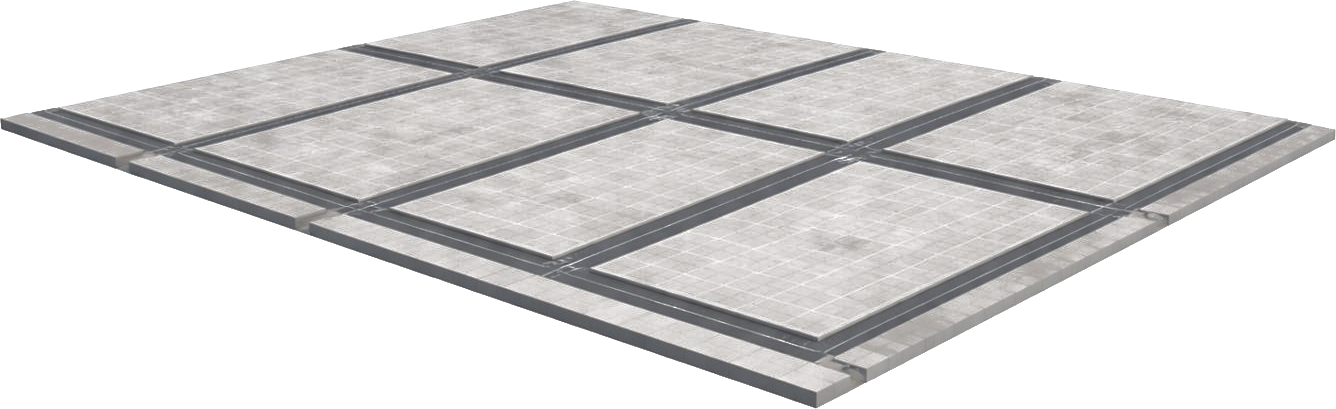
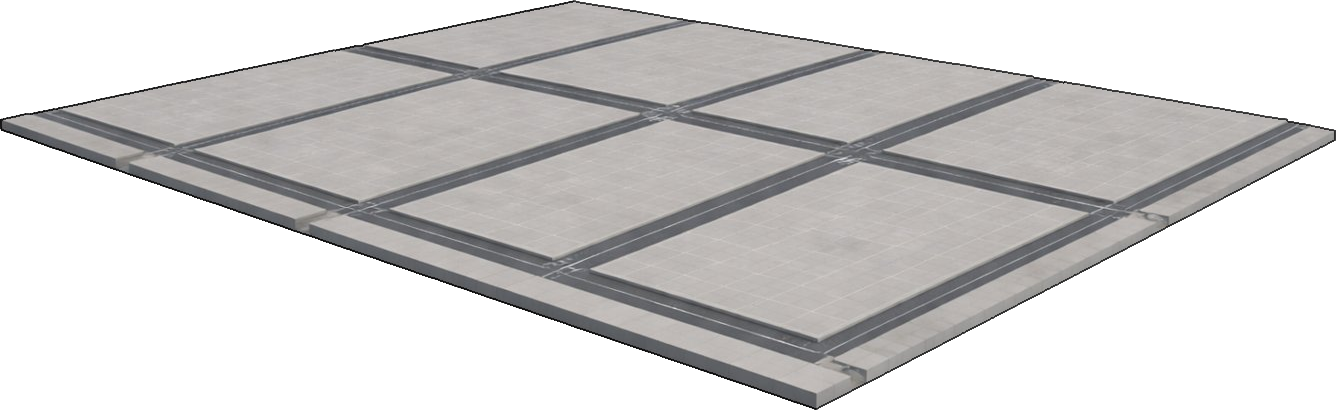
Add 3 AWS regions as interactive islands with labels and hover effects
- Define REGIONS data structure for eu-west-1, ap-southeast-1, us-east-1
- Render islands dynamically with region ID, AZ count, and city labels
- Add hover scale effect (1.05) with smooth transition
- Size islands proportionally by capacity using clamp/vw units
- Update branding to 3 REGIONS · AWS VISUALIZATION

diff --git a/src/CloudCityScene.jsx b/src/CloudCityScene.jsx
@@ -38,10 +38,54 @@ function drawSky(canvas) {
   ctx.putImageData(d,0,0);
 }
 
+const REGIONS = [
+  {
+    id: "eu-west-1",
+    name: "Ireland",
+    left: "8%",
+    top: "50vh",
+    size: "clamp(120px, 18vw, 280px)",
+    azCount: 3,
+    zIndex: 3,
+    opacity: 0.85,
+    blur: "blur(0.5px)",
+    shadow: "drop-shadow(0px 6px 5px rgba(0,0,0,0.55))",
+    labelSize: 8,
+  },
+  {
+    id: "ap-southeast-1",
+    name: "Singapore",
+    right: "8%",
+    top: "50vh",
+    size: "clamp(120px, 18vw, 280px)",
+    azCount: 3,
+    zIndex: 3,
+    opacity: 0.85,
+    blur: "blur(0.5px)",
+    shadow: "drop-shadow(0px 6px 5px rgba(0,0,0,0.55))",
+    labelSize: 8,
+  },
+  {
+    id: "us-east-1",
+    name: "N. Virginia",
+    left: "50%",
+    top: "58vh",
+    translateX: "-50%",
+    size: "clamp(280px, 42vw, 680px)",
+    azCount: 6,
+    zIndex: 4,
+    opacity: 1,
+    blur: "",
+    shadow: "drop-shadow(0px 14px 10px rgba(0,0,0,0.75))",
+    labelSize: 10,
+  },
+];
+
 export default function CloudCityScene() {
   const skyRef = useRef(null);
   const blendRef = useRef(null);
   const [mode, setMode] = useState("ARCH");
+  const [hoveredRegion, setHoveredRegion] = useState(null);
   const MODES = ["ARCH","COST","FAULT","GROWTH","DENSITY"];
 
   useEffect(() => {
@@ -119,36 +163,79 @@ export default function CloudCityScene() {
         pointerEvents:"none"
       }}/>
 
-      {/* Water shadow beneath island - like reference image */}
-      <div style={{
-        position:"absolute",
-        left:"50%",
-        top:"52%",
-        transform:"translateX(-50%)",
-        width:"42%",
-        height:"8%",
-        background:"radial-gradient(ellipse at center, rgba(0,0,0,0.40) 0%, rgba(0,0,0,0.18) 50%, transparent 80%)",
-        filter:"blur(25px)",
-        zIndex:3,
-        pointerEvents:"none"
-      }}/>
+{/* AWS Regions - rendered from data */}
+{REGIONS.map(r => {
+  const isHovered = hoveredRegion === r.id;
+  const transform = [
+    r.translateX ? `translateX(${r.translateX})` : "",
+    isHovered ? "scale(1.05)" : "scale(1)"
+  ].filter(Boolean).join(" ");
 
-      {/* Layer 4: Island - smaller for holistic view */}
-      <img 
-        src="/island.png" 
-        alt="CloudCity Platform" 
+  return (
+    <div
+      key={r.id}
+      style={{
+        position:"absolute",
+        left: r.left,
+        right: r.right,
+        top: r.top,
+        width: r.size,
+        zIndex: r.zIndex,
+        display:"flex",
+        flexDirection:"column",
+        alignItems:"center",
+        gap:6,
+        transform,
+        transition:"transform 0.25s ease",
+        cursor:"pointer"
+      }}
+      onMouseEnter={() => setHoveredRegion(r.id)}
+      onMouseLeave={() => setHoveredRegion(null)}
+    >
+      {/* Region label */}
+      <div style={{
+        display:"flex",
+        flexDirection:"column",
+        alignItems:"center",
+        gap:2,
+        opacity: r.opacity,
+        pointerEvents:"none"
+      }}>
+        <div style={{
+          color:"rgba(255,255,255,0.90)",
+          fontSize: r.labelSize,
+          fontWeight:700,
+          letterSpacing:"0.15em",
+          textShadow:"0 1px 4px rgba(0,0,0,0.6)"
+        }}>
+          {r.id}
+        </div>
+        <div style={{
+          color:"rgba(180,220,255,0.70)",
+          fontSize: r.labelSize - 2,
+          letterSpacing:"0.12em",
+          textShadow:"0 1px 3px rgba(0,0,0,0.5)"
+        }}>
+          {r.azCount} AZs · {r.name}
+        </div>
+      </div>
+
+      {/* Island image */}
+      <img
+        src="/island.png"
+        alt={r.id}
         style={{
-          position:"absolute",
-          left:"50%",
-          top:"58%",
-          transform:"translateX(-50%)",
-          width:"40%",
+          width:"100%",
           height:"auto",
-          zIndex:4,
+          opacity: r.opacity,
+          filter:`${r.shadow} ${r.blur}`,
           pointerEvents:"none",
-          filter:"drop-shadow(0 18px 35px rgba(0,0,0,0.28))"
+          display:"block"
         }}
       />
+    </div>
+  );
+})}
 
       {/* UI - Brand */}
       <div style={{ position:"absolute", top:16, left:18, zIndex:10 }}>
@@ -166,7 +253,7 @@ export default function CloudCityScene() {
           letterSpacing:"0.25em", 
           marginTop:2 
         }}>
-          1 REGION · AWS VISUALIZATION
+          3 REGIONS · AWS VISUALIZATION
         </div>
       </div>
 
